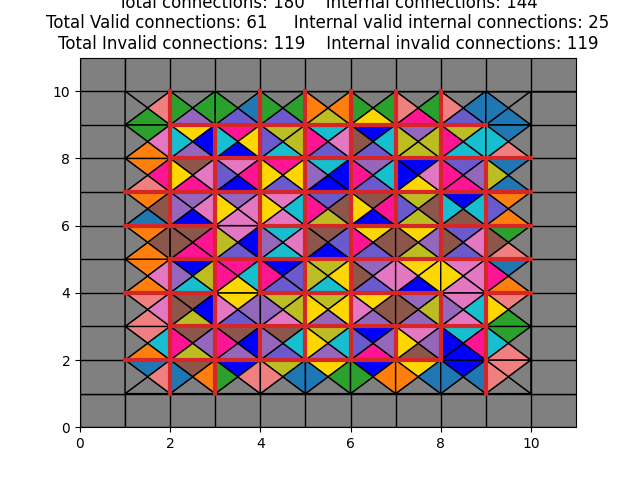
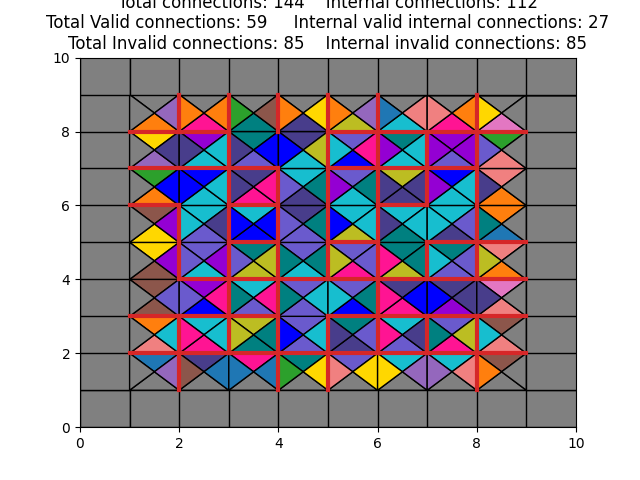
Adding better randomness in destroy part of lns

diff --git a/Projet/code/solver_lns.py b/Projet/code/solver_lns.py
@@ -40,7 +40,7 @@ def solve_lns(e: EternityPuzzle):
 
     print("Border final cost : {}".format(nb_conflict))
     
-    initial_solution = generate_random_solution(e)
+    # initial_solution = generate_random_solution(e)
     visualize(e, initial_solution, "debogging_border")
 
     
@@ -83,18 +83,16 @@ def destroy(e: EternityPuzzle, solution, neighborhood_size=4, debug_visualizatio
 
     # Remove k pieces with the most conflict
     conflict_position, nb_conflict = get_conflict_positions(e, solution, return_nb_conflict=True)
-    pieces_with_most_conflict = sorted([(idx, nb_conflict[idx]) for idx in nb_conflict.keys()], key= lambda x: -x[1])
+    pieces_with_most_conflict = [(idx, nb_conflict[idx] + 0.1) for idx in nb_conflict.keys() if piece_type(solution[idx]) == INNER]
+    idx_conflic = [idx for idx, _ in pieces_with_most_conflict]
 
-    # p = np.array([for ])
+    probabilities = np.array([nb_conflict for _, nb_conflict in pieces_with_most_conflict])
+    probabilities = probabilities / np.sum(probabilities)
 
     removed_pieces_idx = []
-    while len(removed_pieces_idx) != neighborhood_size and len(pieces_with_most_conflict) != 0:
-        piece_loc_idx = pieces_with_most_conflict.pop(0)[0]
-        if piece_type(solution[piece_loc_idx]) == INNER:
-            removed_pieces_idx.append(piece_loc_idx)
-        if np.random.uniform(0.0, 1.0) < 0.25:
-            pieces_with_most_conflict.pop(0)
-        
+    for _ in range(neighborhood_size):
+        idx = np.random.choice(idx_conflic, p=probabilities)
+        removed_pieces_idx.append(idx)
 
     removed_pieces = []
     for idx in removed_pieces_idx:
